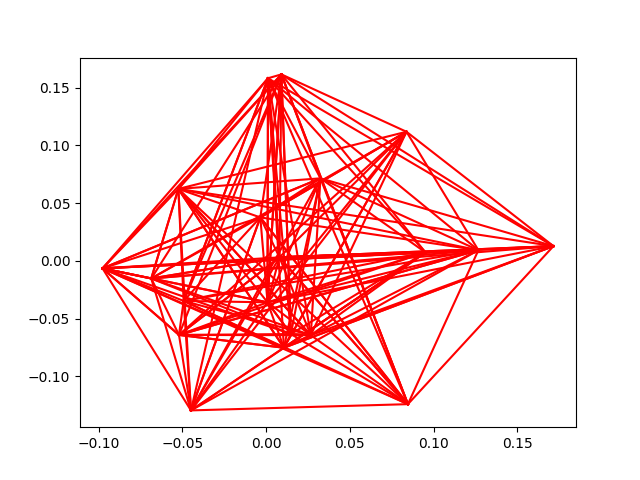
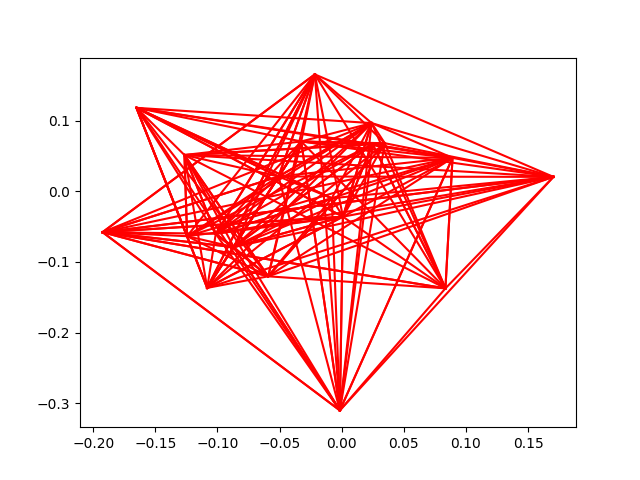
postprocess update

diff --git a/Model_MolGAN/solver.py b/Model_MolGAN/solver.py
@@ -153,7 +153,10 @@ class Solver(object):
     def label2onehot(self, labels, dim):
         """Convert label indices to one-hot vectors."""
         out = torch.zeros(list(labels.size())+[dim]).to(self.device)
-        out.scatter_(len(out.size())-1,labels.unsqueeze(-1),1.)
+        out.scatter_( len(out.size())-1, labels.unsqueeze(-1), 1.)
+        # scatter_(input, dim, index, src) 将src中数据根据index中的索引按照dim的方向填进input
+        # len(out.size())-1 = 3
+        # labels.unsqueeze(-1): 0->1,0, 1->0,1
         return out
 
     def classification_loss(self, logit, target, dataset='CelebA'):
@@ -186,13 +189,14 @@ class Solver(object):
             softmax = [F.softmax(e_logits / temperature, -1)
                        for e_logits in listify(inputs)]
 
-        return [delistify(e) for e in (softmax)]
+
+        return delistify([delistify(e) for e in (softmax)])
 
     def reward(self, A, X):
         # adjacent matrix
         rr = 1.
-        rr *= calConnectivityReward(A.cpu().detach().numpy())
-        rr *= calRedundancyReward(A.cpu().detach().numpy() , X.cpu().detach().numpy() )
+        rr *= calConnectivityReward(A.cpu().detach().numpy().copy())
+        rr *= calRedundancyReward(A.cpu().detach().numpy().copy() , X.cpu().detach().numpy().copy() )
         # for m in ('logp,sas,qed,unique' if self.metric == 'all' else self.metric).split(','):
 
         #     if m == 'np':
@@ -263,7 +267,7 @@ class Solver(object):
             # Compute loss with fake images.
             edges_logits, nodes_logits = self.G(z)
             # Postprocess with Gumbel softmax
-            (edges_hat, nodes_hat) = self.postprocess((edges_logits, nodes_logits), self.post_method)
+            (edges_hat) = self.postprocess((edges_logits), self.post_method)
             # nodes_hat = nodes_logits
             logits_fake, features_fake = self.D(edges_hat, None, nodes_logits)
             d_loss_fake = torch.mean(logits_fake)
@@ -298,15 +302,15 @@ class Solver(object):
                 # Z-to-target
                 edges_logits, nodes_logits = self.G(z)
                 # Postprocess with Gumbel softmax
-                (edges_hat, nodes_hat) = self.postprocess((edges_logits, nodes_logits), self.post_method)
+                (edges_hat) = self.postprocess((edges_logits), self.post_method)
                 logits_fake, features_fake = self.D(edges_hat, None, nodes_logits)
                 g_loss_fake = - torch.mean(logits_fake)
 
                 # Real Reward
                 rewardR = torch.from_numpy(self.reward(a, x)).to(self.device)
                 # Fake Reward
-                (edges_hard, nodes_hard) = self.postprocess((edges_logits, nodes_logits), 'hard_gumbel')
-                edges_hard, nodes_hard = torch.max(edges_hard, -1)[1], nodes_hard
+                (edges_hard) = self.postprocess((edges_logits), self.post_method)
+                edges_hard, nodes_hard = torch.max(edges_hard, -1)[1], nodes_logits
                 # mols = [self.data.matrices2mol(n_.data.cpu().numpy(), e_.data.cpu().numpy(), strict=True)
                 #         for e_, n_ in zip(edges_hard, nodes_hard)]
                 rewardF = torch.from_numpy(self.reward(edges_hard, nodes_hard)).to(self.device)

diff --git a/Model_MolGAN/main.py b/Model_MolGAN/main.py
@@ -46,11 +46,11 @@ if __name__ == '__main__':
     parser.add_argument('--post_method', type=str, default='soft_gumbel', choices=['softmax', 'soft_gumbel', 'hard_gumbel'])
 
     # Training configuration.
-    parser.add_argument('--batch_size', type=int, default=2, help='mini-batch size')
-    parser.add_argument('--num_iters', type=int, default=10000, help='number of total iterations for training D')
+    parser.add_argument('--batch_size', type=int, default=4, help='mini-batch size')
+    parser.add_argument('--num_iters', type=int, default=100000, help='number of total iterations for training D')
     parser.add_argument('--num_iters_decay', type=int, default=1000, help='number of iterations for decaying lr')
-    parser.add_argument('--g_lr', type=float, default=0.000001, help='learning rate for G')
-    parser.add_argument('--d_lr', type=float, default=0.000001, help='learning rate for D')
+    parser.add_argument('--g_lr', type=float, default=0.00001, help='learning rate for G')
+    parser.add_argument('--d_lr', type=float, default=0.00001, help='learning rate for D')
     parser.add_argument('--dropout', type=float, default=0., help='dropout rate')
     parser.add_argument('--n_critic', type=int, default=3, help='number of D updates per each G update')
     parser.add_argument('--beta1', type=float, default=0.5, help='beta1 for Adam optimizer')
@@ -58,11 +58,11 @@ if __name__ == '__main__':
     parser.add_argument('--resume_iters', type=int, default=None, help='resume training from this step')
 
     # Test configuration.
-    parser.add_argument('--test_iters', type=int, default=10000, help='test model from this step')
+    parser.add_argument('--test_iters', type=int, default=4000, help='test model from this step')
 
     # Miscellaneous.
     parser.add_argument('--num_workers', type=int, default=2)
-    parser.add_argument('--mode', type=str, default='train', choices=['train', 'test'])
+    parser.add_argument('--mode', type=str, default='test', choices=['train', 'test'])
     parser.add_argument('--use_tensorboard', type=str2bool, default=False)
 
     # Directories.
@@ -74,7 +74,7 @@ if __name__ == '__main__':
 
     # Step size.
     parser.add_argument('--log_step', type=int, default=10)
-    parser.add_argument('--sample_step', type=int, default=1000)
+    parser.add_argument('--sample_step', type=int, default=10000)
     parser.add_argument('--model_save_step', type=int, default=1000)
     parser.add_argument('--lr_update_step', type=int, default=1000)
 

diff --git a/Model_MolGAN/evaluationGAN.py b/Model_MolGAN/evaluationGAN.py
@@ -28,7 +28,7 @@ from solver import Solver
 from torch.autograd import Variable
 import torch
 
-np.random.seed(42)
+# np.random.seed(42)
 
 def calDatasetInfo():
     promEpsilon   = 30   # m,  minimum prominence threshold in the analysis
@@ -87,7 +87,7 @@ def generateSample(size):
     z = Variable(torch.from_numpy(z)).to(solver.device).float()
     # Z-to-target
     edges_logits, nodes_logits = solver.G(z)
-    (edges_hat, nodes_hat) = solver.postprocess((edges_logits, nodes_logits), solver.post_method)
+    (edges_hat) = solver.postprocess((edges_logits), solver.post_method)
     A = torch.max(edges_hat, -1)[1]
     # print(A.data.cpu().numpy())
     # print(nodes_logits.data.cpu().numpy())
@@ -146,8 +146,9 @@ def drawResult(pointList, edges, size):
     plt.scatter(apointlist[0,0], apointlist[0,1], c='y')
     plt.title('in MST')
     plt.savefig('molganSample' + str(size) + '.png')
-    # plt.savefig('res/molganSample' + str(size) + '.png')
+    plt.savefig('res/molganSample' + str(size) + '.png')
     # plt.show()
+    plt.clf()
 
 '''
 ============================================================
@@ -162,11 +163,11 @@ initial the molGAN Solver
 '''
 solver = testCaseGenerator(10000)
 times = 0
-
+# generateSample(40)
 evalData = []
-for sample in tqdm(range(20)):
-    pointlistFullSize = generateSample(100)
-    maxTime = 20
+for sample in tqdm(range(1)):
+    pointlistFullSize = generateSample(40)
+    maxTime = 40
     time = 0
     # choose one realtree as tree A
     for di,diskCenter in enumerate(sampleLocations):
@@ -174,7 +175,7 @@ for sample in tqdm(range(20)):
             break
         # tree A
         peaks = filterPeaksHaversineDist(df, diskCenter, diskRadius)
-        if len(peaks) not in range(20, 100):
+        if len(peaks) not in range(20, 40):
             continue
         else:
             time += 1

diff --git a/gpuTest.py b/gpuTest.py
@@ -5,3 +5,20 @@ if torch.cuda.is_available():
     print(torch.cuda.current_device())
     print(torch.cuda.get_device_name(0))
 
+
+import torch
+ 
+a = torch.tensor([1, 2, 3.], requires_grad=True)
+print(a.grad)
+out = a.sigmoid()
+print(out)
+ 
+#添加detach(),c的requires_grad为False
+c = out.detach().numpy()
+d = c.copy()
+d[0] = 1
+print(d)
+ 
+#这时候没有对c进行更改，所以并不会影响backward()
+out.sum().backward()
+print(a.grad)

diff --git a/Model_MolGAN/README.md b/Model_MolGAN/README.md
@@ -91,11 +91,25 @@ Compare to other methods:
     - node: 32->256->512->1024->400(100x100x4)  
 
 
+predictLen, tree edit distance, elevation kl distance, prominence kl distance
 
-
-10000:  
+Add layer:  [4096], I think we need a bigger one but gpu memory exceeds
+- 10000:  
 [53.35294118 20.          0.43599603  0.32547648]  
 [25.         20.          0.13002367  0.10417727]
+
+Postprocess bug:  hard->soft: A BUG
+- 50000:  
+[53.35294118 20.          0.44846591  0.26389311]  
+[25.         20.          0.13553155  0.09384721]
+
+delete the postprocess of nodes, not a probability distribution:  
+- 4000:  
+[53.35294118 20.          0.47656859  0.2633292 ]  
+[25.         20.          0.17187368  0.06288236]
+
+
+
 
 
 
